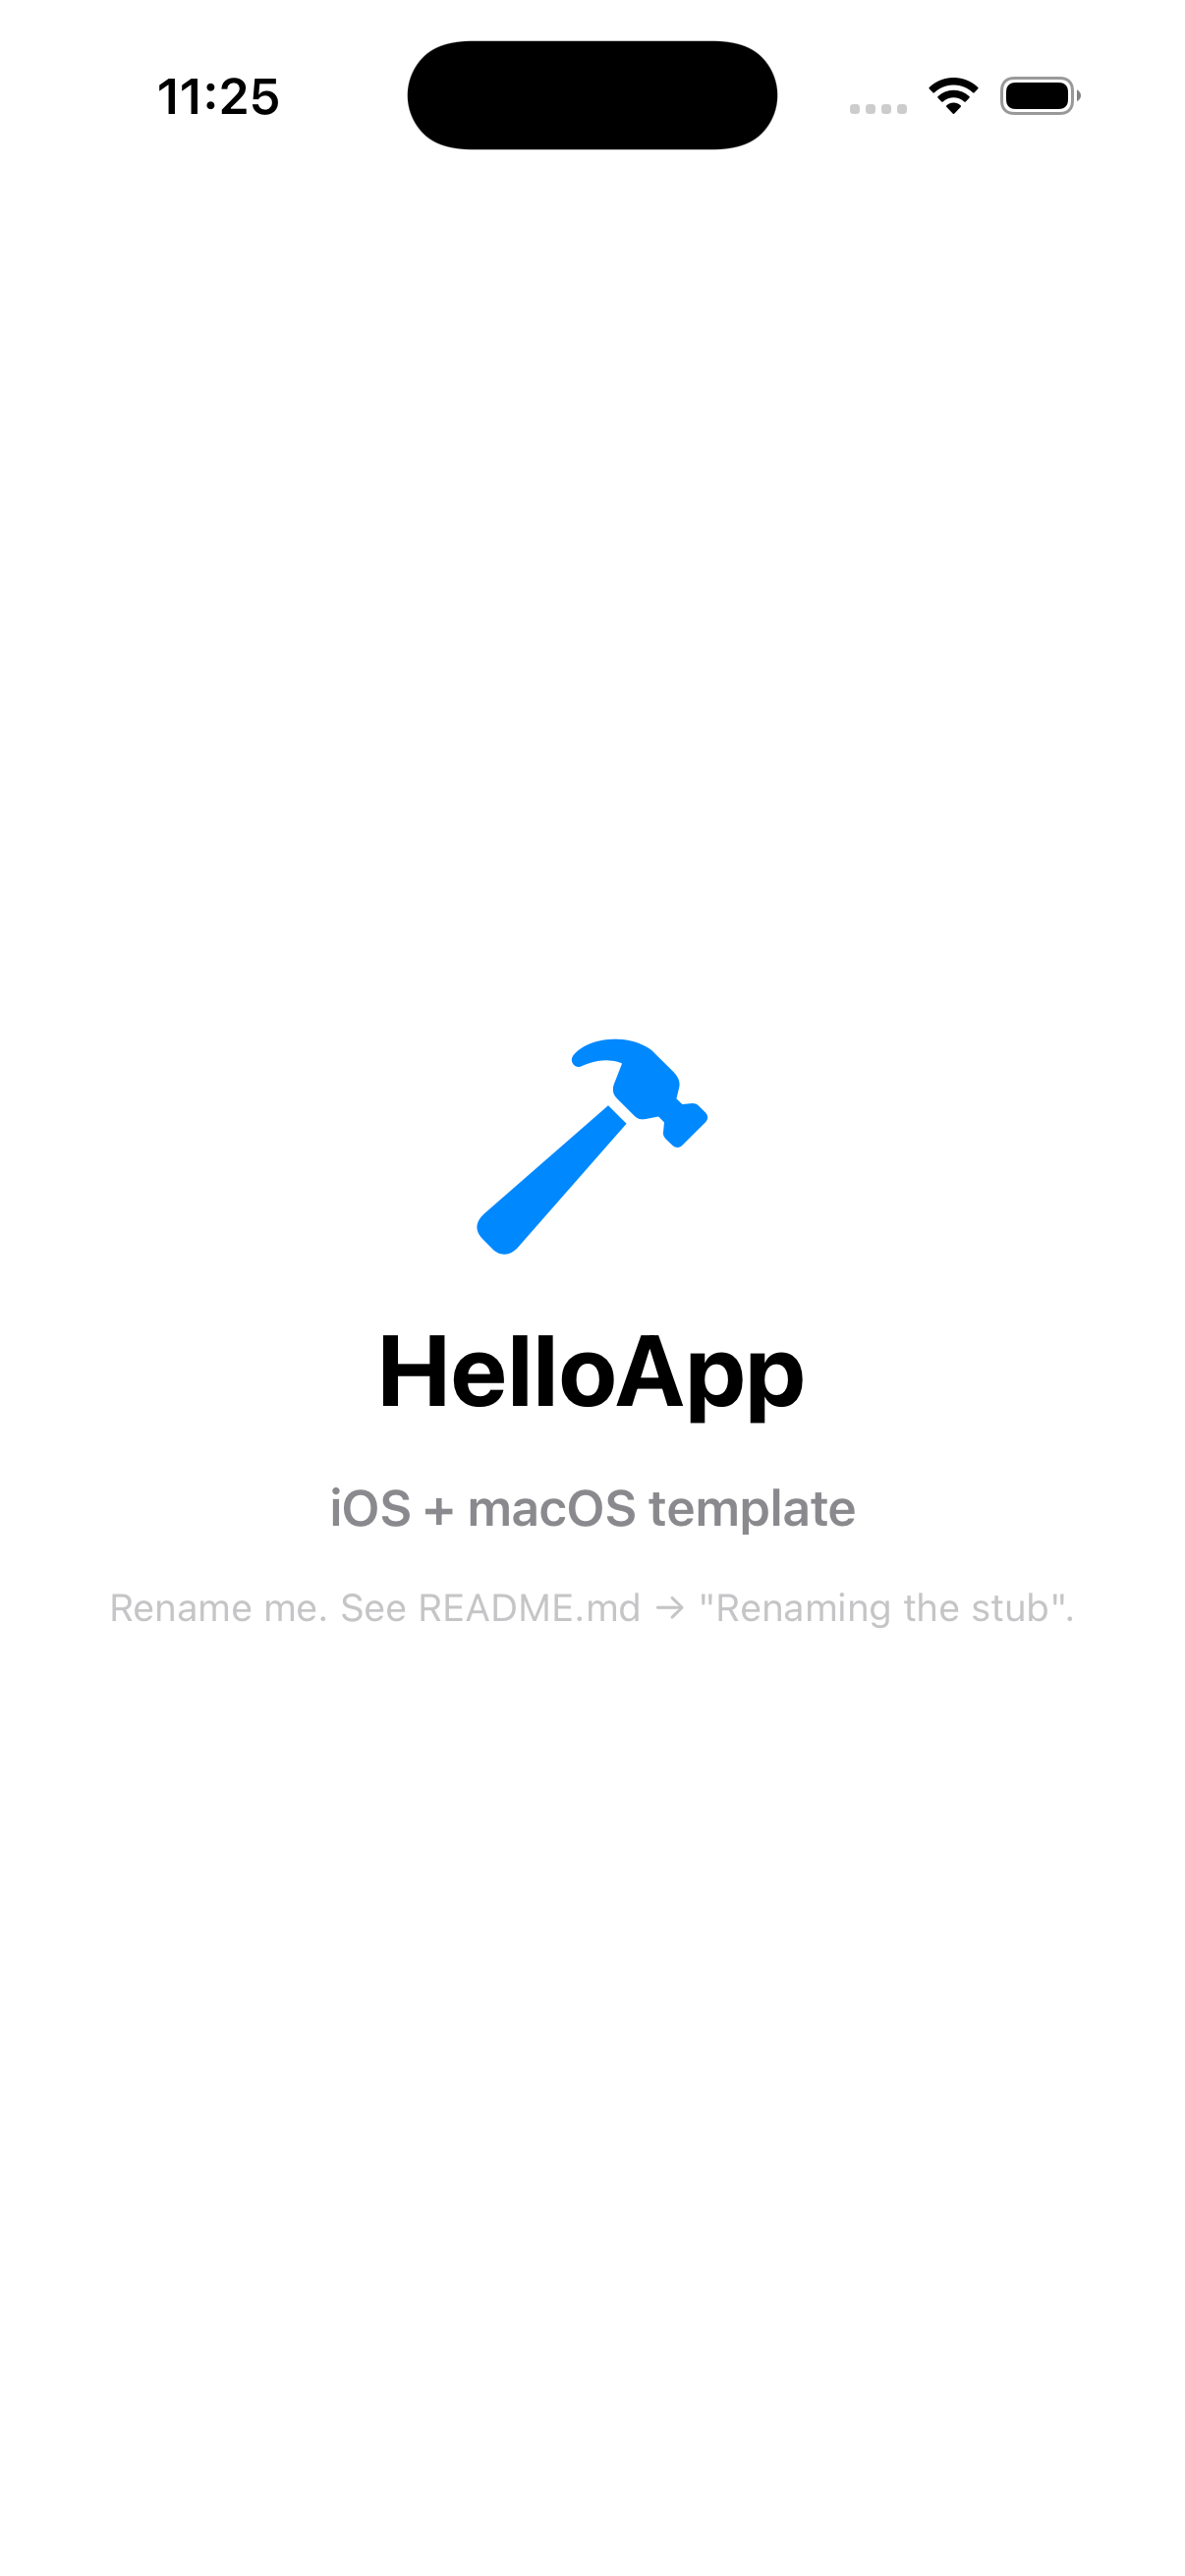
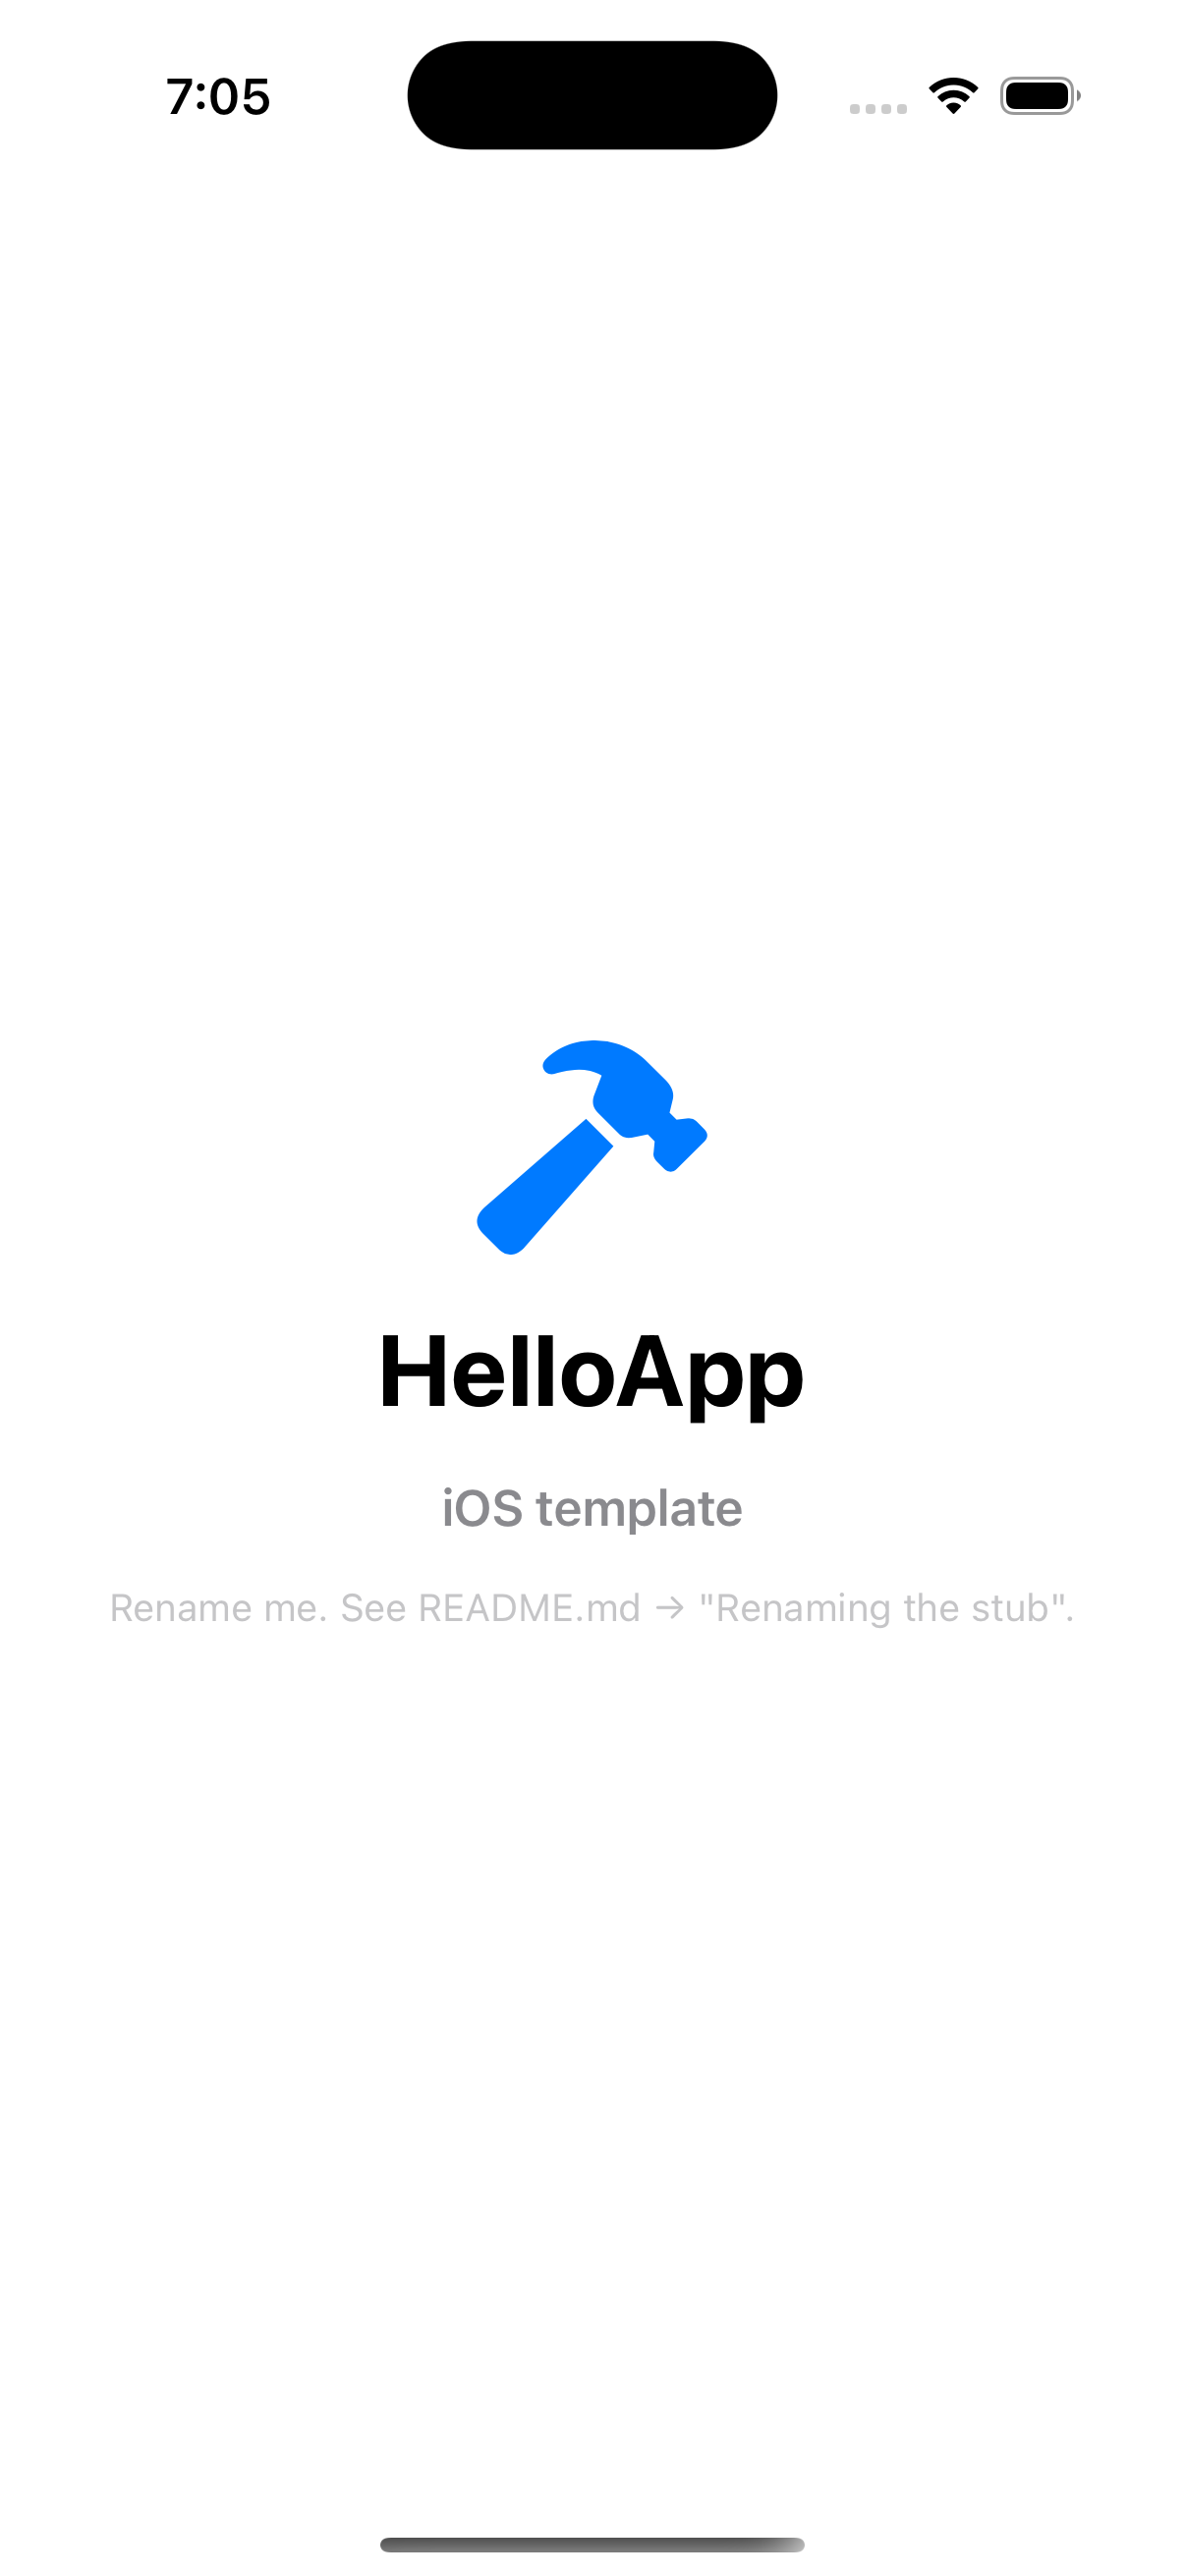
docs: clarify Mac requirement + regenerate platform-aware screenshots (#73)
Two questions raised on the friendly README:

1. 'Do we need a Mac if we're only building iOS?' — Yes. Apple's
   toolchain (Xcode, xcodebuild, fastlane, Simulator) only runs on
   macOS. The README's previous wording implied Mac was needed
   *because* you'd ship macOS, which is wrong — you need a Mac even
   for iPhone-only apps. Fix:
     - Goal banner: 'a Mac to build on (Xcode and the rest of Apple's
       build tools only run on macOS — you need a Mac even for an
       iPhone-only app).'
     - Hardware section: emphasizes 'Required even for iOS-only apps'
       and explicitly says Windows/Linux are not supported.

2. 'Can the README screenshots use the platform-aware text?' — Yes.
   Previously both showed 'iOS + macOS template' subtitle. After PR #72
   added bin/rename.sh's --platforms flag, the SwiftUI stub's subtitle
   varies by platform. The README screenshots now reflect that:
     - docs/screenshots/ios-home.png  → 'iOS template' subtitle
     - docs/screenshots/macos-home.png → 'macOS template' subtitle
   This naturally communicates 'iOS shot is iOS-shaped, Mac shot is
   Mac-shaped' AND showcases the platform-aware feature.

ci/regen-readme-screenshots.sh:
   New maintainer script that captures both PNGs idempotently:
     - patches app/Shared/ContentView.swift's subtitle
     - regenerates the project (xcodegen)
     - builds + launches per platform
     - captures via xcrun simctl io (iOS) / screencapture -R (macOS)
[…]

diff --git a/README.md b/README.md
@@ -6,7 +6,7 @@
 [![Discord](https://img.shields.io/badge/Discord-join%20chat-5865F2?logo=discord&logoColor=white)](https://discord.gg/sExv9eKdA)
 [![Weekly canary](https://github.com/indiagrams/apple-shipkit/actions/workflows/canary-trigger.yml/badge.svg)](https://github.com/indiagrams/apple-shipkit/actions/workflows/canary-trigger.yml)
 
-> **Goal of this README:** if you've never shipped an iOS or Mac app before, by the end of it you will have one running on your phone via TestFlight. About 30–60 minutes of focused time, $99/year for Apple Developer Program, a Mac.
+> **Goal of this README:** if you've never shipped an iOS or Mac app before, by the end of it you will have one running on your phone (or Mac) via TestFlight. About 30–60 minutes of focused time, $99/year for Apple Developer Program, and a Mac to build on (Xcode and the rest of Apple's build tools only run on macOS — you need a Mac even for an iPhone-only app).
 
 <p align="center">
   <img src="docs/screenshots/ios-home.png"   alt="HelloApp template running on iOS Simulator — hammer icon, 'HelloApp' title, and 'Rename me' instruction visible" width="260">
@@ -55,7 +55,7 @@ You don't need to memorize these — refer back as you hit each.
 ## What you need before you start
 
 ### Hardware
-- **A Mac.** Any Mac running macOS Sonoma (14) or newer. iPad/iPhone works for testing the final app but not for building.
+- **A Mac.** Any Mac running macOS Sonoma (14) or newer. **Required even for iOS-only apps** — Xcode, xcodebuild, fastlane, and the iOS Simulator only run on macOS. There is no supported way to build iOS or Mac apps on Windows or Linux.
 - **(Optional) An iPhone or iPad** to install your app via TestFlight at the end. Not strictly required — TestFlight also works on Mac.
 
 ### Money